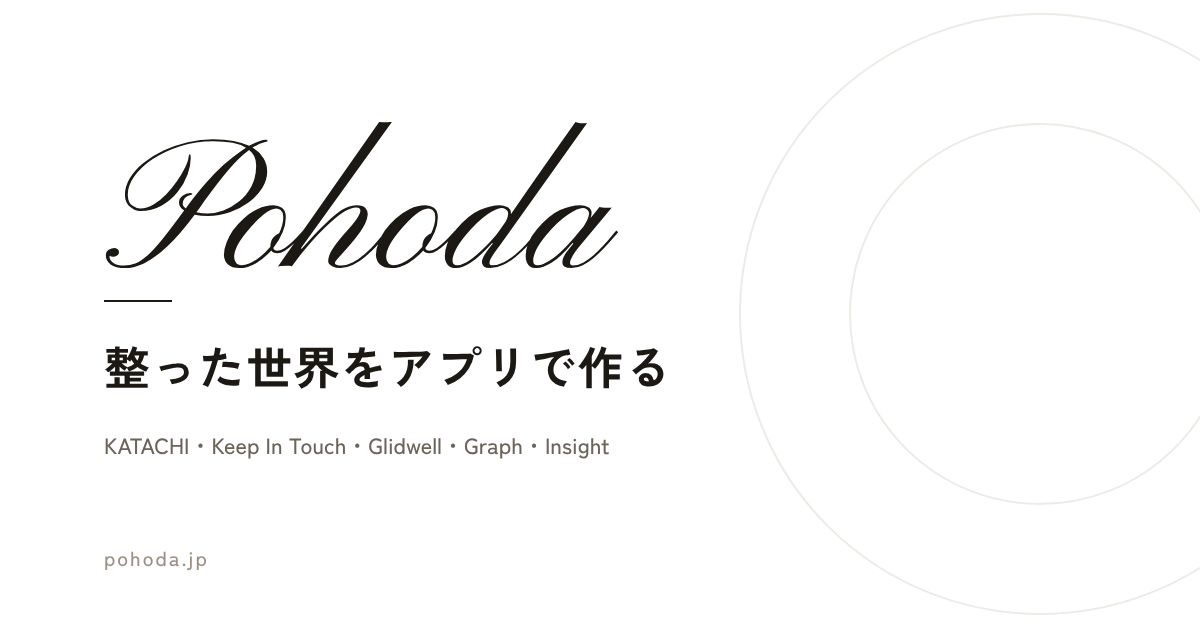
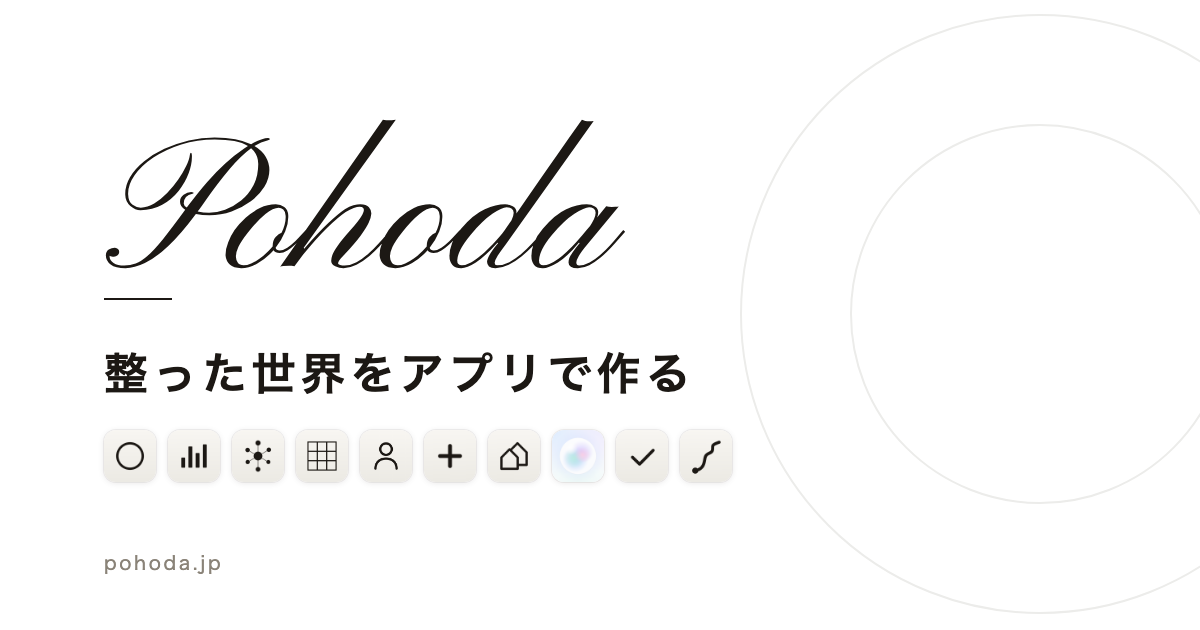
トップの説明文・OGP・FAQを現行の製品構成（iOS 8本＋Web）に更新し、OGP画像を全アプリのアイコン入りに差し替え

diff --git a/index.html b/index.html
@@ -5,22 +5,22 @@
 <meta name="viewport" content="width=device-width, initial-scale=1.0">
 <meta name="google-site-verification" content="Ln_85eCCNsVa0EncVdmv5hbcyEMlKaWUvxQL53UgPHI" />
 <title>Pohoda｜整った世界をアプリで作る</title>
-<meta name="description" content="Pohoda は、筋トレ・体づくり、人とのつながり、転職活動、数字の記録、自己理解までを支える iOS アプリと Web サービスをつくっています。">
+<meta name="description" content="Pohoda は、体づくり・数字の記録・人とのつながり・転職活動・面接練習・住まい選び・顧客管理・自己理解までを支える iOS アプリと Web サービスをつくっています。">
 <link rel="canonical" href="https://pohoda.jp/">
 <meta name="theme-color" content="#ffffff">
 <meta property="og:type" content="website">
 <meta property="og:site_name" content="Pohoda">
 <meta property="og:locale" content="ja_JP">
 <meta property="og:title" content="Pohoda｜整った世界をアプリで作る">
-<meta property="og:description" content="整った世界をアプリで作る。KATACHI・Keep In Touch・Glidwell・Graph・Insight。">
+<meta property="og:description" content="整った世界をアプリで作る。KATACHI・Graph・Keep In Touch・Glidwell・One CRM・Utility・YANE・Pre Interview・Insight・DriveScape。">
 <meta property="og:url" content="https://pohoda.jp/">
-<meta property="og:image" content="https://pohoda.jp/assets/og/og-default.png">
+<meta property="og:image" content="https://pohoda.jp/assets/og/og-default.png?v=2">
 <meta property="og:image:width" content="1200">
 <meta property="og:image:height" content="630">
 <meta name="twitter:card" content="summary_large_image">
 <meta name="twitter:title" content="Pohoda｜整った世界をアプリで作る">
-<meta name="twitter:description" content="整った世界をアプリで作る。">
-<meta name="twitter:image" content="https://pohoda.jp/assets/og/og-default.png">
+<meta name="twitter:description" content="整った世界をアプリで作る。iOS アプリ8本と Web サービス。">
+<meta name="twitter:image" content="https://pohoda.jp/assets/og/og-default.png?v=2">
 <link rel="icon" href="/favicon.ico?v=2" sizes="any">
 <link rel="icon" href="/favicon-48.png?v=2" type="image/png" sizes="48x48">
 <link rel="apple-touch-icon" href="/apple-touch-icon.png?v=2">
@@ -35,7 +35,7 @@
       "name": "Pohoda",
       "url": "https://pohoda.jp/",
       "logo": "https://pohoda.jp/apple-touch-icon.png",
-      "image": "https://pohoda.jp/assets/og/og-default.png",
+      "image": "https://pohoda.jp/assets/og/og-default.png?v=2",
       "email": "pohoda.inc@gmail.com",
       "contactPoint": { "@type": "ContactPoint", "contactType": "business inquiries", "email": "info@pohoda.jp" },
       "foundingDate": "2026-05",
@@ -59,7 +59,7 @@
 }
 </script>
 <script type="application/ld+json">
-{"@context": "https://schema.org", "@type": "FAQPage", "mainEntity": [{"@type": "Question", "name": "Pohoda（ポホダ）とは何ですか？", "acceptedAnswer": {"@type": "Answer", "text": "体づくり・人とのつながり・転職活動・数字の記録・自己理解までを支える iOS アプリと Web サービスをつくる個人事業です（屋号：Pohoda／提供者：杉本 啓輔）。"}}, {"@type": "Question", "name": "どんなアプリ・サービスがありますか？", "acceptedAnswer": {"@type": "Answer", "text": "筋トレ記録の KATACHI、連絡リマインドの Keep In Touch、転職選考管理の Glidwell、数字記録の Graph（iOS アプリ）と、自己理解の Insight、絶景ドライブの DriveScape（Web サービス）があります。"}}, {"@type": "Question", "name": "データは収集されますか？", "acceptedAnswer": {"@type": "Answer", "text": "アプリの記録は原則あなたの端末の中に保存され、必要のないデータは集めません。行動を追跡する仕組みは入れていません。一部の無料 Web サービスは広告・送客で運営します。"}}, {"@type": "Question", "name": "「Pohoda」の意味は？", "acceptedAnswer": {"@type": "Answer", "text": "チェコ語で「心地よい安らぎ」を表す言葉です。長く使える道具づくりを、屋号にしました。"}}]}
+{"@context": "https://schema.org", "@type": "FAQPage", "mainEntity": [{"@type": "Question", "name": "Pohoda（ポホダ）とは何ですか？", "acceptedAnswer": {"@type": "Answer", "text": "体づくり・数字の記録・人とのつながり・転職活動・面接練習・住まい選び・顧客管理・自己理解までを支える iOS アプリと Web サービスをつくる個人事業です（屋号：Pohoda／提供者：杉本 啓輔）。"}}, {"@type": "Question", "name": "どんなアプリ・サービスがありますか？", "acceptedAnswer": {"@type": "Answer", "text": "iOS アプリは、体づくり記録の KATACHI、数字記録の Graph、誕生日と人間関係の Keep In Touch、転職選考管理の Glidwell、顧客・案件管理の One CRM、メモ・ToDo・体重をまとめた Utility、物件比較とハザードマップの YANE、AI面接練習の Pre Interview があります。Web サービスは、自己理解の Insight、絶景ドライブの DriveScape、YANE の Web 版があります。"}}, {"@type": "Question", "name": "データは収集されますか？", "acceptedAnswer": {"@type": "Answer", "text": "アプリの記録は原則あなたの端末の中に保存され、必要のないデータは集めません。行動を追跡する仕組みは入れていません。AI を使う機能（Pre Interview の面接練習など）は、処理のために内容を AI の事業者へ送信します。送信する情報と保存の期間は、各アプリのプライバシーポリシーで説明しています。一部の無料 Web サービスは広告・送客で運営します。"}}, {"@type": "Question", "name": "「Pohoda」の意味は？", "acceptedAnswer": {"@type": "Answer", "text": "チェコ語で「心地よい安らぎ」を表す言葉です。長く使える道具づくりを、屋号にしました。"}}]}
 </script>
 </head>
 <body>
@@ -232,9 +232,9 @@
     <div class="wrap narrow">
       <div class="section-label">よくある質問</div>
       <div class="faq">
-        <details><summary>Pohoda（ポホダ）とは何ですか？</summary><p>体づくり・人とのつながり・転職活動・数字の記録・自己理解までを支える iOS アプリと Web サービスをつくる個人事業です（屋号：Pohoda／提供者：杉本 啓輔）。</p></details>
-        <details><summary>どんなアプリ・サービスがありますか？</summary><p>筋トレ記録の KATACHI、連絡リマインドの Keep In Touch、転職選考管理の Glidwell、数字記録の Graph（iOS アプリ）と、自己理解の Insight、絶景ドライブの DriveScape（Web サービス）があります。</p></details>
-        <details><summary>データは収集されますか？</summary><p>アプリの記録は原則あなたの端末の中に保存され、必要のないデータは集めません。行動を追跡する仕組みは入れていません。一部の無料 Web サービスは広告・送客で運営します。</p></details>
+        <details><summary>Pohoda（ポホダ）とは何ですか？</summary><p>体づくり・数字の記録・人とのつながり・転職活動・面接練習・住まい選び・顧客管理・自己理解までを支える iOS アプリと Web サービスをつくる個人事業です（屋号：Pohoda／提供者：杉本 啓輔）。</p></details>
+        <details><summary>どんなアプリ・サービスがありますか？</summary><p>iOS アプリは、体づくり記録の KATACHI、数字記録の Graph、誕生日と人間関係の Keep In Touch、転職選考管理の Glidwell、顧客・案件管理の One CRM、メモ・ToDo・体重をまとめた Utility、物件比較とハザードマップの YANE、AI面接練習の Pre Interview があります。Web サービスは、自己理解の Insight、絶景ドライブの DriveScape、YANE の Web 版があります。</p></details>
+        <details><summary>データは収集されますか？</summary><p>アプリの記録は原則あなたの端末の中に保存され、必要のないデータは集めません。行動を追跡する仕組みは入れていません。AI を使う機能（Pre Interview の面接練習など）は、処理のために内容を AI の事業者へ送信します。送信する情報と保存の期間は、各アプリのプライバシーポリシーで説明しています。一部の無料 Web サービスは広告・送客で運営します。</p></details>
         <details><summary>「Pohoda」の意味は？</summary><p>チェコ語で「心地よい安らぎ」を表す言葉です。長く使える道具づくりを、屋号にしました。</p></details>
       </div>
     </div>
